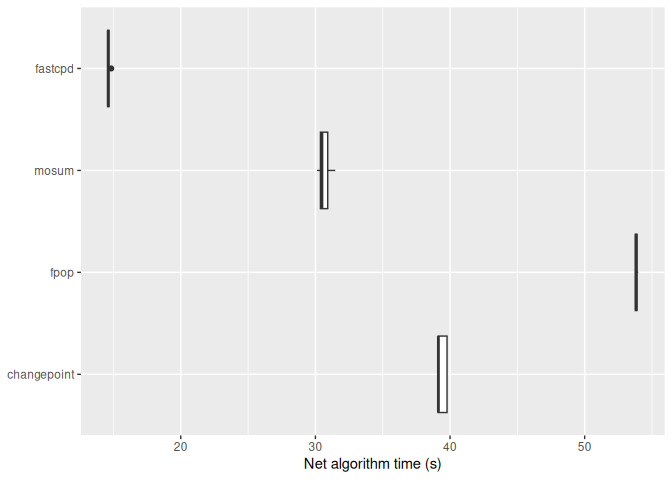
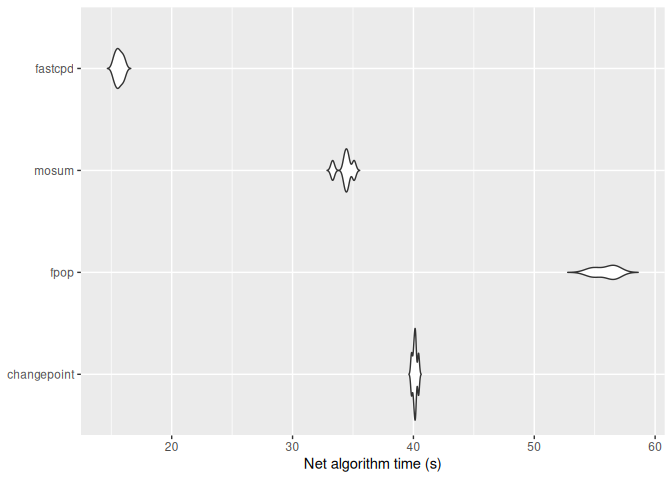
Update fastcpd 1.0.7
*   Change default `trim` from `0.05` to `0`: change points near segment
    boundaries are no longer suppressed by default.
*   Reduce GARCH example sizes: `n` reduced from 1501/200/300 to 401/120/150
    for faster documentation builds and test runs.
*   Replace boxplot with violin plot in README benchmark figure.

diff --git a/README.md b/README.md
@@ -114,16 +114,16 @@ run_isolated <- function(expr) {
 }
 print(run_isolated(fastcpd::fastcpd.mean(mean_data, r.progress = FALSE, cp_only = TRUE, variance_estimation = 1)))
 #>    user  system elapsed 
-#>   8.485   6.322  14.506
+#>   8.396   6.745  14.873
 print(run_isolated(mosum::mosum(c(mean_data), G = 40)))
 #>    user  system elapsed 
-#>   9.050   6.812  15.966
+#>   8.956   7.075  16.227
 print(run_isolated(fpop::Fpop(mean_data, 2 * log(n))))
 #>    user  system elapsed 
-#>  45.515   2.721  48.380
+#>  44.747   2.931  47.885
 print(run_isolated(changepoint::cpt.mean(mean_data, method = "PELT")))
 #>    user  system elapsed 
-#>  31.375   6.170  37.641
+#>  31.544   6.611  38.199
 ```
 
 ``` r
@@ -167,7 +167,8 @@ bm_net$elapsed_s <- bm_net$elapsed_s - baseline_overhead
 bm_net$expr <- droplevels(bm_net$expr)
 if (requireNamespace("ggplot2", quietly = TRUE)) {
   print(ggplot2::ggplot(bm_net, ggplot2::aes(x = expr, y = elapsed_s)) +
-    ggplot2::geom_boxplot() + ggplot2::labs(x = NULL, y = "Net algorithm time (s)") +
+    ggplot2::geom_violin(trim = FALSE) +
+    ggplot2::labs(x = NULL, y = "Net algorithm time (s)") +
     ggplot2::coord_flip())
 }
 ```

diff --git a/NEWS.md b/NEWS.md
@@ -1,3 +1,11 @@
+# fastcpd 1.0.7
+
+*   Change default `trim` from `0.05` to `0`: change points near segment
+    boundaries are no longer suppressed by default.
+*   Reduce GARCH example sizes: `n` reduced from 1501/200/300 to 401/120/150
+    for faster documentation builds and test runs.
+*   Replace boxplot with violin plot in README benchmark figure.
+
 # fastcpd 1.0.6
 
 *   Performance improvements: absl::InlinedVector for pruned set (O(1) memory